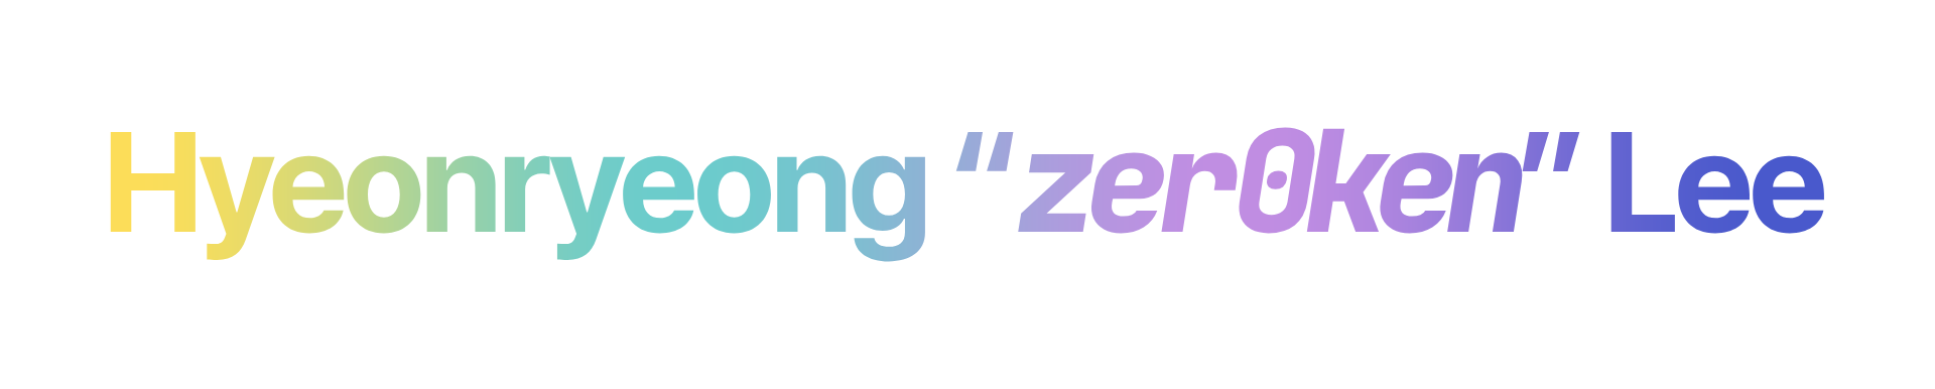
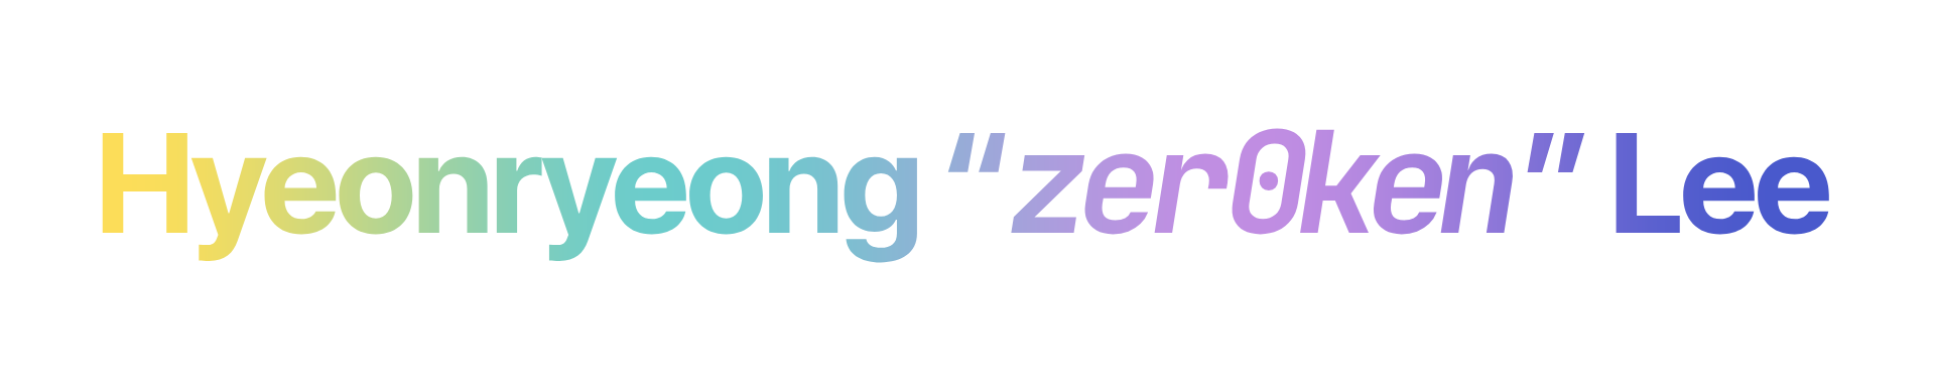
update

Changed region(s): [[0.031, 0.3085, 0.8682, 0.6787], [0.8372, 0.401, 0.9612, 0.617]]

diff --git a/name-banner/README.md b/name-banner/README.md
@@ -1,0 +1,5 @@
+## 이름 배너
+
+깃허브 프로필 등에 사용할 수 있는 이름 배너입니다.
+
+<img width="100%" src="name-banner.png">
